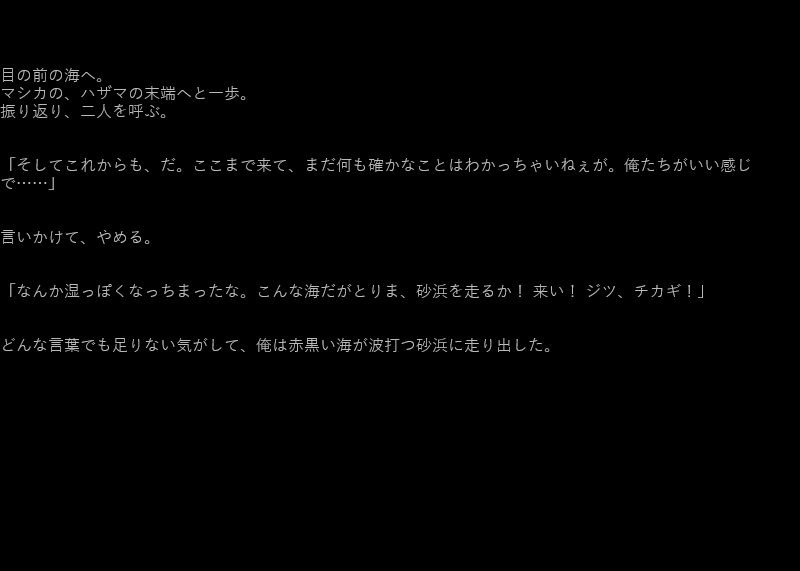
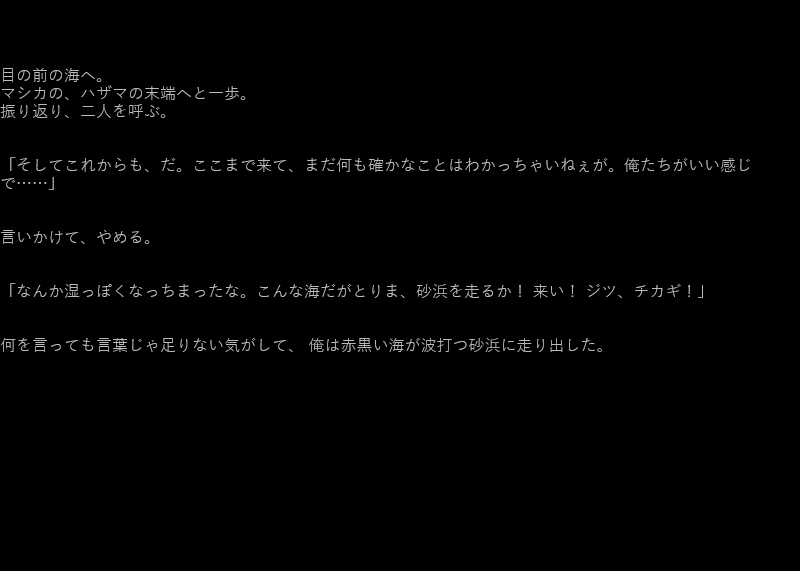
推敲 多分最終

Changed region(s): [[0.0, 0.5954, 0.75, 0.6252]]

diff --git a/okiba/995/36/index.html b/okiba/995/36/index.html
@@ -291,7 +291,7 @@ body {
 「そいつの封を解いたら、二度と元には戻せない。花はまた時間を取り戻して生き始める。いずれ枯れて種を作る。それがどういうことか、わかってるんだろうな？」
 
 
-気がつけば、俺はジツを責め立ていた。
+気がつけば、俺はジツを責め立てていた。
 自分の口から出てしまった言葉の強さに驚いてはっとする。
 無音が二人の間を満たすと、ジツは言葉を少しずつ紡いだ。
 
@@ -845,7 +845,7 @@ body {
 「なんか湿っぽくなっちまったな。こんな海だがとりま、砂浜を走るか！ 来い！ ジツ、チカギ！」
 
 
-どんな言葉でも足りない気がして、俺は赤黒い海が波打つ砂浜に走り出した。
+何を言っても言葉じゃ足りない気がして、 俺は赤黒い海が波打つ砂浜に走り出した。
 
 
 
